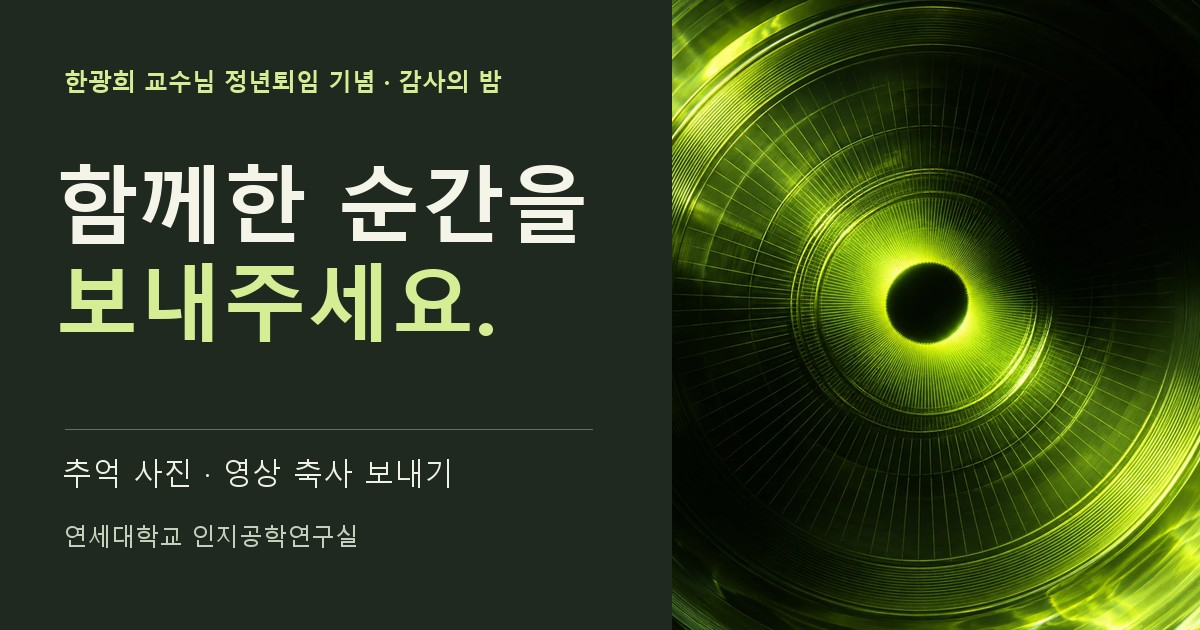
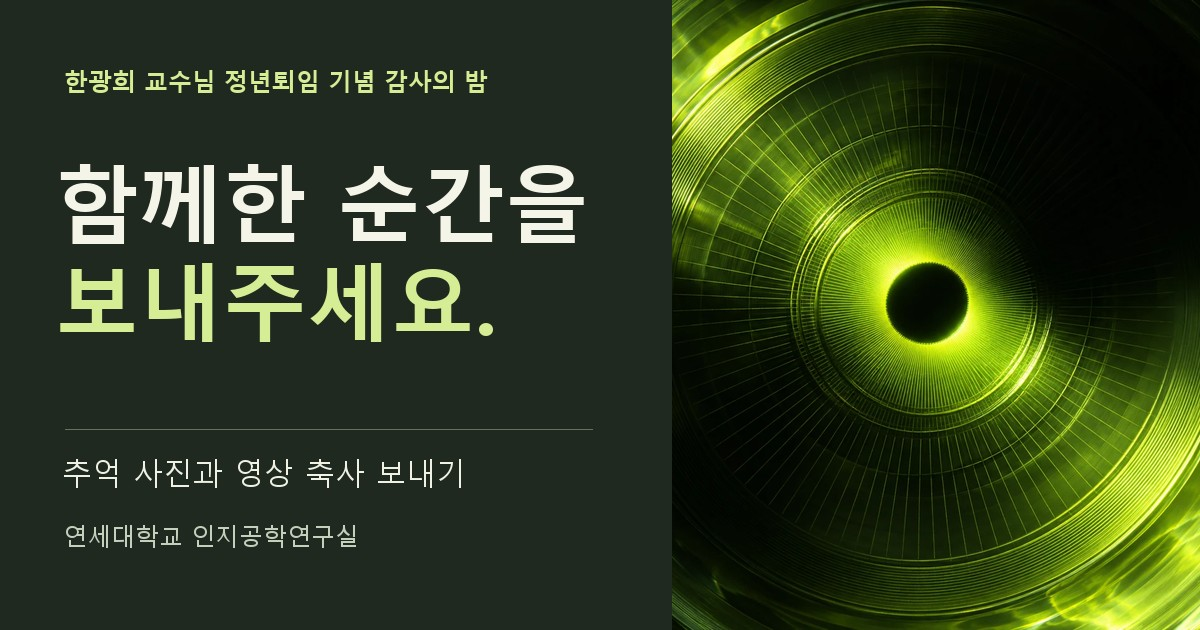
Clarify photo and video submission guidance

Changed region(s): [[0.1542, 0.7238, 0.4008, 0.7841], [0.3083, 0.0905, 0.4317, 0.1508]]

diff --git a/index.html b/index.html
@@ -6,13 +6,13 @@
   <meta name="intake-api" content="https://dr-han-event.frizzyebony8.chatgpt.site">
   <meta name="theme-color" content="#20291f">
   <meta name="robots" content="noindex, noarchive">
-  <meta name="description" content="한광희 교수님 정년퇴임 기념 감사의 밤을 위해 모든 분의 추억 사진과 원거리·미참석 동문의 영상 축사를 받습니다.">
+  <meta name="description" content="한광희 교수님 정년퇴임 기념 감사의 밤을 위해 모든 분의 추억 사진과 원거리 및 미참석 동문의 영상 축사를 받습니다.">
   <meta property="og:type" content="website">
   <meta property="og:locale" content="ko_KR">
   <meta property="og:title" content="함께한 순간을 보내주세요 | 감사의 밤">
-  <meta property="og:description" content="감사의 밤 · 추억 사진은 모든 분께, 영상 축사는 원거리·미참석 동문께 받습니다.">
+  <meta property="og:description" content="감사의 밤에 보낼 추억 사진을 받습니다. 영상 축사는 원거리 및 미참석 동문께 부탁드립니다.">
   <meta property="og:url" content="https://road2east-git.github.io/Y-Cogeng/">
-  <meta property="og:image" content="https://road2east-git.github.io/Y-Cogeng/assets/share.jpg">
+  <meta property="og:image" content="https://road2east-git.github.io/Y-Cogeng/assets/share.jpg?v=2">
   <meta property="og:image:width" content="1200">
   <meta property="og:image:height" content="630">
   <title>함께한 순간을 보내주세요 | 한광희 교수님 감사의 밤</title>
@@ -33,7 +33,7 @@
     <section class="hero" aria-labelledby="page-title">
       <div class="shell hero-inner">
         <div class="hero-copy">
-          <p class="event-label">한광희 교수님 정년퇴임 기념 <span aria-hidden="true">·</span> 감사의 밤</p>
+          <p class="event-label">한광희 교수님 정년퇴임 기념 감사의 밤</p>
           <h1 id="page-title">함께한 순간을<br><em>보내주세요.</em></h1>
           <p>연구실과 학회, 모임에서 함께 찍은 사진을 보내주세요.<br class="wide"> 멀리 계시거나 행사에 참석하기 어려운 동문은 영상으로 인사를 전해 주세요.</p>
         </div>
@@ -45,7 +45,7 @@
     </section>
 
     <section class="shell intake" id="submit-materials" aria-labelledby="intake-title">
-      <div class="intake-heading"><h2 id="intake-title">사진·영상 보내기</h2><p>사진과 영상은 따로 제출할 수 있습니다.</p></div>
+      <div class="intake-heading"><h2 id="intake-title">사진과 영상 보내기</h2><p>가로형과 세로형 모두 올릴 수 있습니다. 해상도는 자유입니다.</p></div>
       <p class="preview-note" id="local-preview" hidden>파일로 연 미리보기입니다. 사진을 선택해 화면을 확인해 보세요. <a id="online-intake" href="https://road2east-git.github.io/Y-Cogeng/">온라인 제출 페이지 열기 <span aria-hidden="true">↗</span></a></p>
       <p class="preview-note" id="connection-status" role="status" hidden></p>
       <noscript><p class="notice">자료를 첨부하려면 브라우저에서 JavaScript를 사용하도록 설정해 주세요.</p></noscript>
@@ -69,7 +69,7 @@
                 </div>
               </div>
               <input class="sr-only file-input" type="file" id="photos" accept="image/jpeg,image/png,image/webp,image/gif,image/heic,image/heif,.heic,.heif" multiple aria-describedby="photo-audience photo-limit">
-              <label for="photos" class="drop" data-kind="photo"><span class="drop-symbol" aria-hidden="true">+</span><strong>사진 선택</strong><small id="photo-limit">최대 8장 · 한 장당 25 MB</small></label>
+              <label for="photos" class="drop" data-kind="photo"><span class="drop-symbol" aria-hidden="true">+</span><strong>사진 선택</strong><small id="photo-limit">최대 8장</small></label>
               <p class="media-error" id="photo-error" role="alert" hidden></p>
               <ul class="files" id="photo-list" aria-label="선택한 사진"></ul>
             </section>
@@ -79,12 +79,12 @@
                 <span class="media-icon play" aria-hidden="true">▷</span>
                 <div>
                   <h3 id="video-title">영상 축사</h3>
-                  <p class="media-audience" id="video-audience">원거리·미참석 동문</p>
+                  <p class="media-audience" id="video-audience">원거리 및 미참석 동문</p>
                   <p>교수님께 전하고 싶은 한마디를 영상에 담아주세요. 30초~1분 권장</p>
                 </div>
               </div>
               <input class="sr-only file-input" type="file" id="videos" accept="video/mp4,video/quicktime,video/webm,.mp4,.mov,.webm,.m4v" aria-describedby="video-audience video-limit">
-              <label for="videos" class="drop" data-kind="video"><span class="drop-symbol" aria-hidden="true">+</span><strong>영상 선택</strong><small id="video-limit">최대 1개 · 250 MB · MP4, MOV, WebM</small></label>
+              <label for="videos" class="drop" data-kind="video"><span class="drop-symbol" aria-hidden="true">+</span><strong>영상 선택</strong><small id="video-limit">최대 1개 (MP4, MOV, WebM)</small></label>
               <p class="media-error" id="video-error" role="alert" hidden></p>
               <ul class="files" id="video-list" aria-label="선택한 영상"></ul>
             </section>

diff --git a/site.js b/site.js
@@ -54,7 +54,7 @@ function invalidateAttempt() {
 function showSelection() {
   const photoText = entries.photo.length ? `사진 ${entries.photo.length}장` : '';
   const videoText = entries.video.length ? '영상 1개' : '';
-  selection.textContent = [photoText, videoText].filter(Boolean).join(' · ') || '선택한 파일 없음';
+  selection.textContent = [photoText, videoText].filter(Boolean).join(', ') || '선택한 파일 없음';
 }
 
 function photoFields(entry) {
@@ -62,7 +62,7 @@ function photoFields(entry) {
   group.className = 'photo-fields';
   const prompts = [
     {name: 'year', label: '촬영연도', placeholder: '예. 2016', max: 20},
-    {name: 'place', label: '장소·행사', placeholder: '예. HCI 학회', max: 100},
+    {name: 'place', label: '장소 또는 행사', placeholder: '예. HCI 학회', max: 100},
     {name: 'people', label: '등장인물', placeholder: '기억나는 이름을 적어주세요', max: 160},
     {name: 'memory', label: '짧은 에피소드', placeholder: '그날 기억나는 일이 있다면 적어주세요', max: 300},
   ];
@@ -142,7 +142,7 @@ function addFiles(files, kind) {
       continue;
     }
     if (!file.size || file.size > fileLimit) {
-      messages.add(`용량을 확인해 주세요. ${kind === 'photo' ? '사진은 한 장당 25 MB' : '영상은 250 MB'}까지 받을 수 있습니다.`);
+      messages.add('이 파일을 추가할 수 없습니다. 다른 파일을 선택해 주세요.');
       continue;
     }
     if (kind === 'photo' && entries.photo.length >= limits.photoCount) {
@@ -245,7 +245,7 @@ async function sendSubmission(files, sender) {
   for (const [index, {file}] of files.entries()) {
     const parts = attempt.parts[index];
     const partCount = Math.ceil(file.size / limits.partBytes);
-    uploadMessage.textContent = `파일 보내는 중 · ${index + 1} / ${files.length}`;
+    uploadMessage.textContent = `파일 보내는 중 (${index + 1} / ${files.length})`;
     for (let partIndex = 0; partIndex < partCount; partIndex += 1) {
       const start = partIndex * limits.partBytes;
       const part = file.slice(start, start + limits.partBytes);

diff --git a/styles.css b/styles.css
@@ -39,7 +39,6 @@ button:disabled { cursor: default; opacity: .65; }
 .hero { color: #f4f4e8; background: var(--pine); }
 .hero-inner { display: grid; grid-template-columns: 1.12fr .82fr; align-items: center; gap: clamp(25px, 6vw, 94px); padding: clamp(30px, 5.5vw, 70px) 0; }
 .event-label { color: var(--lime); font-size: clamp(12px, 1.15vw, 15px); line-height: 1.5; letter-spacing: .04em; font-weight: 700; }
-.event-label span { margin-inline: 3px; }
 .hero h1 { margin-block: 17px 20px; font-size: clamp(45px, 6.25vw, 86px); line-height: 1.04; letter-spacing: -.085em; font-weight: 900; }
 .hero h1 em { font-style: normal; color: var(--lime); }
 .hero-copy > p:last-child { color: #d3d9c9; font-size: clamp(14px, 1.3vw, 17px); line-height: 1.75; letter-spacing: -.022em; }
